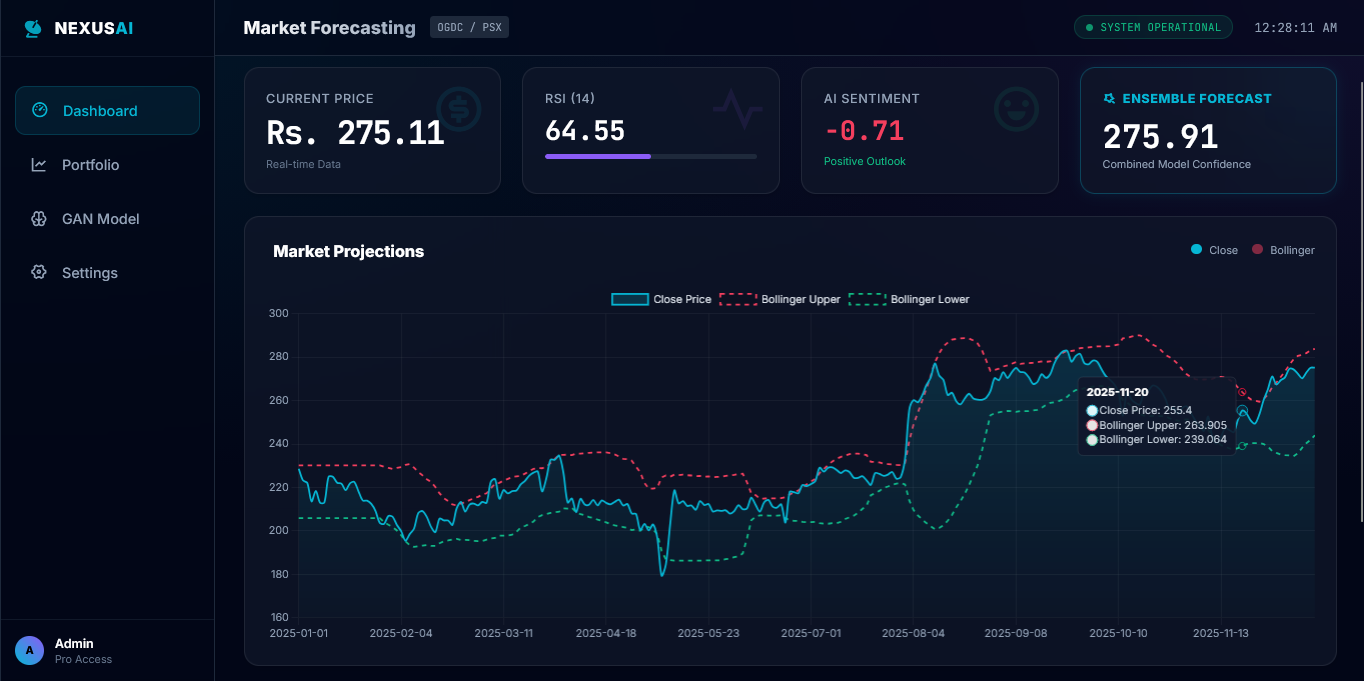
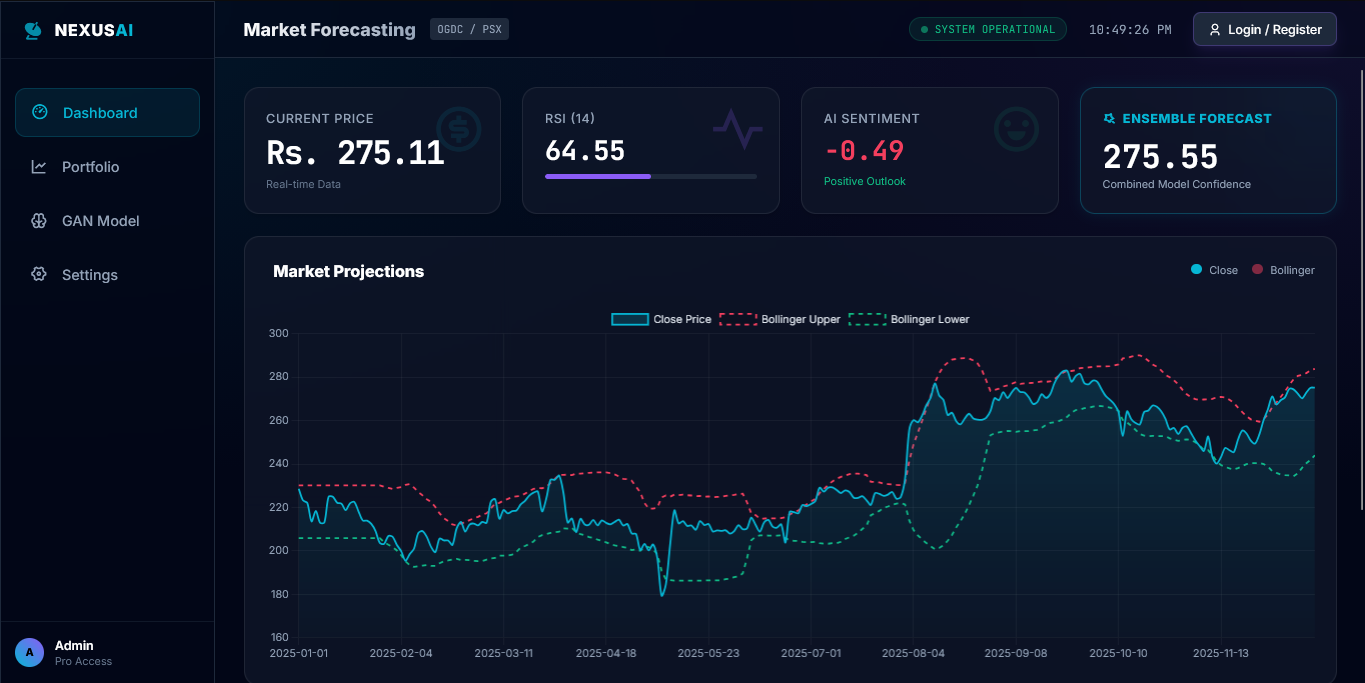
Feat: Add Login Button & Error Handling Fallback

diff --git a/templates/dashboard.html b/templates/dashboard.html
@@ -137,11 +137,18 @@
             
             <div class="flex items-center gap-6">
                 <!-- Status Indicator -->
-                <div class="flex items-center gap-2 px-3 py-1 rounded-full bg-neon-green/10 border border-neon-green/20">
-                    <div class="w-2 h-2 rounded-full bg-neon-green animate-pulse"></div>
-                    <span class="text-xs font-mono text-neon-green tracking-wide">SYSTEM OPERATIONAL</span>
+                <div id="status-container" class="flex items-center gap-2 px-3 py-1 rounded-full bg-neon-green/10 border border-neon-green/20">
+                    <div id="status-dot" class="w-2 h-2 rounded-full bg-neon-green animate-pulse"></div>
+                    <span id="status-text" class="text-xs font-mono text-neon-green tracking-wide">SYSTEM OPERATIONAL</span>
                 </div>
                 <div class="text-slate-400 text-sm font-mono" id="clock">--:--:--</div>
+
+                <!-- Dummy Login Button (Visual Trick) -->
+                <button onclick="alert('User Management Module is scheduled for FYP-2 implementation.')" 
+                        class="bg-slate-800 hover:bg-slate-700 text-white px-4 py-2 rounded-lg border border-neon-purple/30 transition-all flex items-center gap-2 text-sm font-medium shadow-lg shadow-neon-purple/10">
+                    <i class="ri-user-3-line"></i> 
+                    <span class="hidden md:inline">Login / Register</span>
+                </button>
             </div>
         </header>
 
@@ -302,6 +309,23 @@
 
             } catch (err) {
                 console.error("Fetch failed", err);
+                // Fallback Scenario: System Offline Visuals
+                document.getElementById('price').innerHTML = `<span class="text-neon-red text-xl">Offline</span>`;
+                
+                // Update Status Indicator
+                const container = document.getElementById('status-container');
+                const dot = document.getElementById('status-dot');
+                const text = document.getElementById('status-text');
+
+                container.classList.remove('border-neon-green/20', 'bg-neon-green/10');
+                container.classList.add('border-neon-red/20', 'bg-neon-red/10');
+
+                dot.classList.remove('bg-neon-green');
+                dot.classList.add('bg-neon-red');
+
+                text.innerText = "SYSTEM OFFLINE";
+                text.classList.remove('text-neon-green');
+                text.classList.add('text-neon-red');
             }
         }
 
